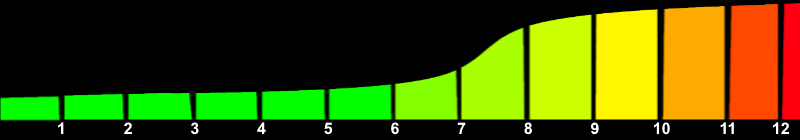
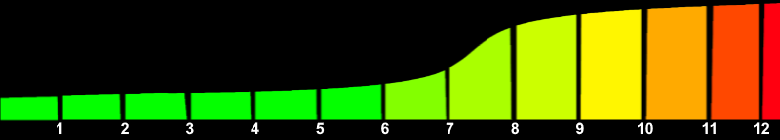
made image 780

diff --git a/DashGUI.py b/DashGUI.py
@@ -162,7 +162,7 @@ class DashGUI:
         self.canvas.tag_raise(self.rpmVal)
 
     def updateRPM(self, value):
-        self.canvas.coords(self.rpmBar, round((value * 800 / 12500)), 0, 800, 120)
+        self.canvas.coords(self.rpmBar, round((value * 780 / 12500)), 0, 800, 120)
         # self.rpmVal.text = str(round(value))
         self.canvas.itemconfigure(self.rpmVal, text=str(round(int((value + 50) / 100) * 100)))  # Rounding
         # TODO add blinking lights
